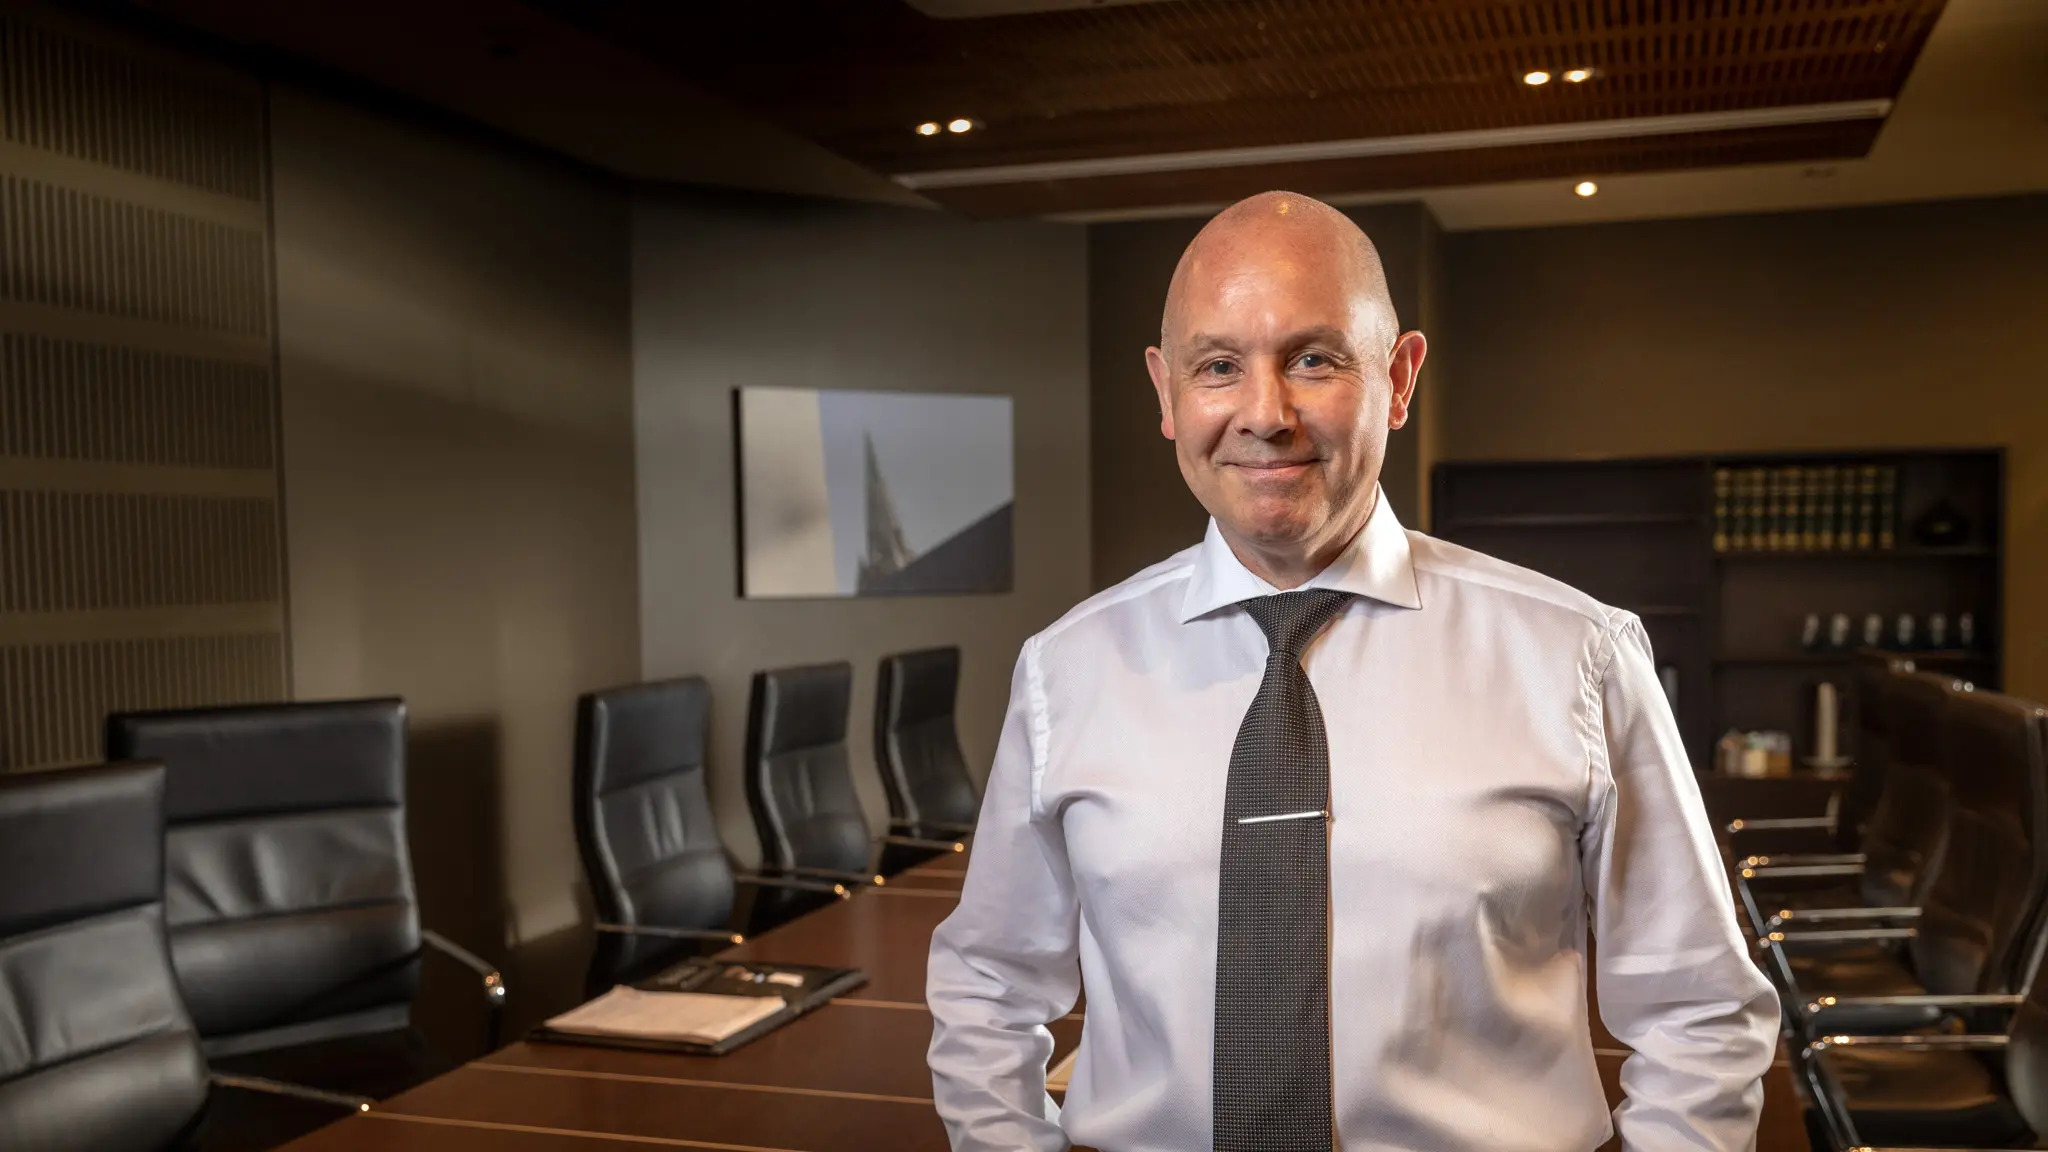
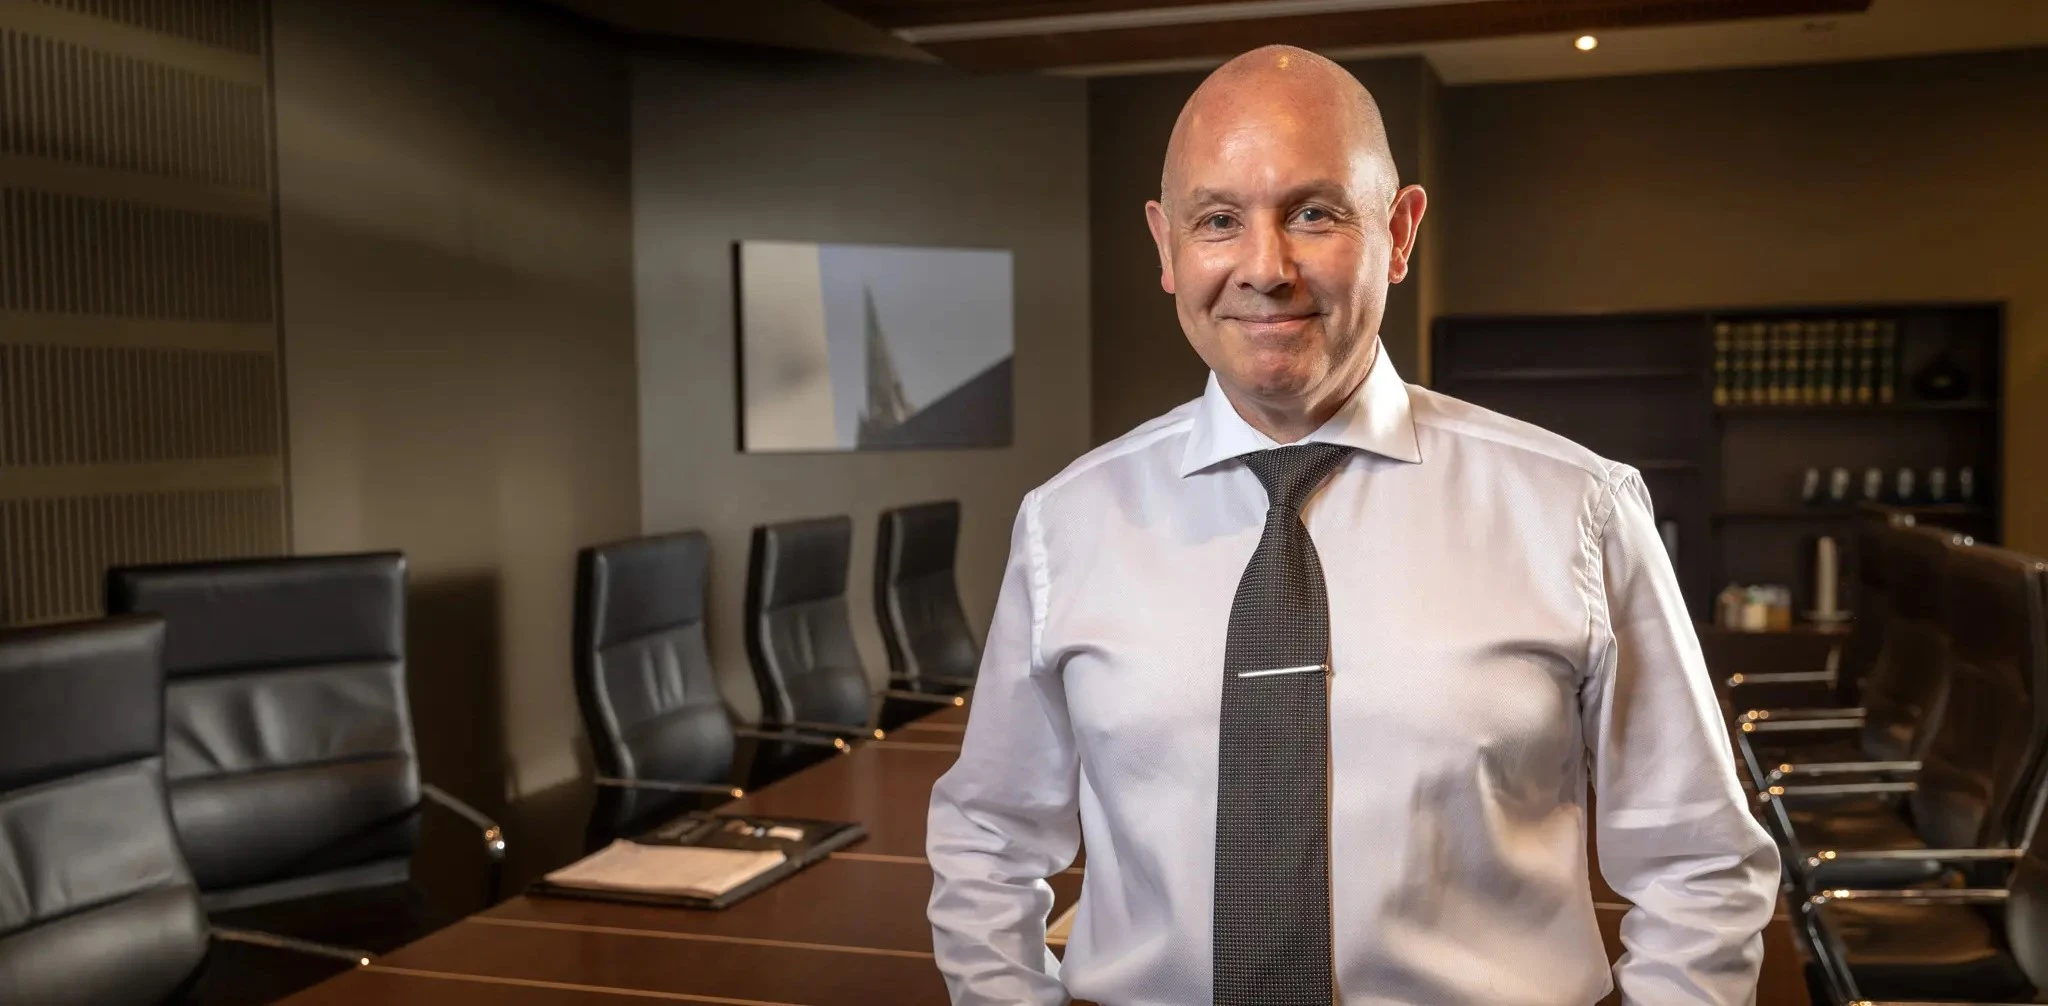
Added Layout102 and Content1

diff --git a/src/components/Layout102.tsx b/src/components/Layout102.tsx
@@ -17,7 +17,8 @@ type Props = {
   image: ImageProps;
 };
 
-export type Layout102Props = React.ComponentPropsWithoutRef<"section"> & Partial<Props>;
+export type Layout102Props = React.ComponentPropsWithoutRef<"section"> &
+  Partial<Props>;
 
 export function Layout102(props: Layout102Props) {
   const { heading, description, image, subHeadings } = {
@@ -26,49 +27,57 @@ export function Layout102(props: Layout102Props) {
   };
 
   return (
-    <section id='layout102' className='px-[5%] py-16 md:py-24 lg:py-28'>
-      <div className='container'>
-        <div className='mb-12 grid grid-cols-1 items-start justify-between gap-x-12 gap-y-5 md:mb-18 md:grid-cols-2 md:gap-x-12 md:gap-y-8 lg:mb-20 lg:gap-x-20'>
+    <section id="layout102" className="px-[5%] py-16 md:py-24 lg:py-28">
+      <div className="container">
+        <div className="mb-12 grid grid-cols-1 items-start justify-between gap-x-12 gap-y-5 md:mb-18 md:grid-cols-2 md:gap-x-12 md:gap-y-8 lg:mb-20 lg:gap-x-20">
           <header>
-            <h2 className='text-4xl font-bold leading-[1.2] md:text-5xl lg:text-6xl'>{heading}</h2>
+            <h2 className="text-4xl font-bold leading-[1.2] md:text-5xl lg:text-6xl">
+              {heading}
+            </h2>
           </header>
           <div>
-            <p className='mb-6 md:mb-8 md:text-md'>{description}</p>
-            <div className='grid grid-cols-1 gap-6 py-2 sm:grid-cols-2'>
+            <p className="mb-6 md:mb-8 md:text-md">{description}</p>
+            <div className="grid grid-cols-1 gap-6 py-2 sm:grid-cols-2">
               {subHeadings.map((subHeading, index) => (
                 <article key={index}>
-                  <h3 className='mb-3 text-md font-bold leading-[1.4] md:mb-4 md:text-xl'>{subHeading.title}</h3>
+                  <h3 className="mb-3 text-md font-bold leading-[1.4] md:mb-4 md:text-xl">
+                    {subHeading.title}
+                  </h3>
                   <p>{subHeading.description}</p>
                 </article>
               ))}
             </div>
           </div>
         </div>
-        <div className='relative'>
-          <div className='absolute inset-0 bg-black/10 z-10'></div>
+        <div className="relative">
+          <div className="absolute inset-0 bg-black/10 z-10"></div>
           <Image
             src={image.src}
             alt={image.alt ?? ""}
             width={1280}
-            height={720}
-            className='w-full object-cover relative rounded-lg'
+            height={853}
+            className="w-full object-cover relative rounded-lg"
           />
           {/* Glass morphism quote on medium devices and up */}
-          <div className='absolute left-[5%] top-1/2 -translate-y-1/2 lg:max-w-[300px] md:max-w-[270px] h-auto rounded-lg bg-white/10 backdrop-blur-md p-8 hidden md:flex flex-col justify-center'>
-            <p className='text-white text-2xl italic font-normal mb-4'>
-              &quot;I am looking to build on the knowledge and experience I have accumulated to create life changing
-              wealth for investors&quot;
+          <div className="absolute left-[5%] top-1/2 -translate-y-1/2 lg:max-w-[300px] md:max-w-[270px] h-auto rounded-lg bg-white/10 backdrop-blur-md p-8 hidden md:flex flex-col justify-center">
+            <p className="text-white text-2xl italic font-normal mb-4">
+              &quot;I am looking to build on the knowledge and experience I have
+              accumulated to create life changing wealth for investors&quot;
             </p>
-            <p className='text-white italic font-normal mb-4 text-lg'>- Bernard Whimp</p>
+            <p className="text-white italic font-normal mb-4 text-lg">
+              - Bernard Whimp
+            </p>
           </div>
         </div>
         {/* Quote for small devices */}
-        <div className='bg-white mt-6 md:hidden'>
-          <p className='text-black italic font-normal mb-4 sm:text-2xl'>
-            &quot;I am looking to build on the knowledge and experience I have accumulated to create life changing
-            wealth for investors&quot;
+        <div className="bg-white mt-6 md:hidden">
+          <p className="text-black italic font-normal mb-4 sm:text-2xl">
+            &quot;I am looking to build on the knowledge and experience I have
+            accumulated to create life changing wealth for investors&quot;
           </p>
-          <p className='text-black italic font-normal mb-4 sm:text-2xl'>- Bernard Whimp</p>
+          <p className="text-black italic font-normal mb-4 sm:text-2xl">
+            - Bernard Whimp
+          </p>
         </div>
       </div>
     </section>
@@ -76,10 +85,10 @@ export function Layout102(props: Layout102Props) {
 }
 
 export const Layout102Defaults: Props = {
-  heading: `Described by some as "the god of stocks."`,
-  description: `Bernard Whimp is a visionary and an entrepreneur, some would refer to him as "the god of stocks". As an experienced professional stock picker, he is passionate, relentless, and strategic when it comes to the Australian stock market.`,
+  heading: `Described by some as "the god of stocks"`,
+  description: `Bernard Whimp is a visionary and an entrepreneur; some would refer to him as "the god of stocks". As an experienced professional stock picker, he is passionate, relentless, and strategic when it comes to the Australian stock market.`,
   image: {
-    src: "/images/bernard-desk-center.webp",
+    src: "/images/bernard-at-desk.webp",
     alt: "Bernard sitting at desk",
   },
   subHeadings: [

diff --git a/src/components/Hero.tsx b/src/components/Hero.tsx
@@ -21,7 +21,8 @@ type Props = {
   image: ImageProps;
 };
 
-export type HeroProps = React.ComponentPropsWithoutRef<"section"> & Partial<Props>;
+export type HeroProps = React.ComponentPropsWithoutRef<"section"> &
+  Partial<Props>;
 
 export const Hero = (props: HeroProps) => {
   const { tagline, heading, buttons, image } = {
@@ -35,27 +36,31 @@ export const Hero = (props: HeroProps) => {
   };
 
   return (
-    <section id='relume' className='relative px-[5%]'>
-      <div className='container'>
-        <div className='flex min-h-svh flex-col justify-end md:justify-end lg:justify-start lg:flex-row lg:items-center py-16 md:py-24 lg:py-28'>
-          <div className='max-w-md pb-8 md:pb-12 lg:pb-0'>
-            <p className='mb-3 font-normal text-text-alternative md:mb-4'>{tagline}</p>
-            <h1 className='mb-5 text-6xl font-bold text-text-alternative md:mb-6 md:text-9xl lg:text-10xl'>
+    <section id="relume" className="relative px-[5%]">
+      <div className="container">
+        <div className="flex min-h-svh flex-col justify-end md:justify-end lg:justify-start lg:flex-row lg:items-center py-16 md:py-24 lg:py-28">
+          <div className="max-w-md pb-8 md:pb-12 lg:pb-0">
+            <p className="mb-3 font-normal text-text-alternative md:mb-4">
+              {tagline}
+            </p>
+            <h1 className="mb-5 text-6xl font-bold text-text-alternative md:mb-6 md:text-9xl lg:text-10xl">
               {heading}
             </h1>
-            <p className='text-text-alternative md:text-md'>
-              Bernard Whimp has over 30 years experience in share investment and stock markets, commercial property
-              investment and development, commercial property financing and mortgage lending, property <br />
+            <p className="text-text-alternative md:text-md">
+              Bernard Whimp has over 30 years experience in share investment and
+              stock markets, commercial property investment and development,
+              commercial property financing and mortgage lending, property{" "}
+              <br />
               and securities law.
             </p>
-            <div className='mt-6 flex flex-wrap gap-4 md:mt-8'>
+            <div className="mt-6 flex flex-wrap gap-4 md:mt-8">
               {buttons.map((button, index) =>
                 button.title === "Learn more" ? (
                   <Button key={index} {...button} onClick={handleLearnMore}>
                     {button.title}
                   </Button>
                 ) : (
-                  <Button key={index} {...button} href='/contact'>
+                  <Button key={index} {...button} href="/contact">
                     {button.title}
                   </Button>
                 )
@@ -64,16 +69,16 @@ export const Hero = (props: HeroProps) => {
           </div>
         </div>
       </div>
-      <div className='absolute inset-0 -z-10'>
+      <div className="absolute inset-0 -z-10">
         <Image
           src={image.src}
           alt={image.alt || "Background image"}
           fill
-          sizes='(max-width: 768px) 100vw, (max-width: 1200px) 100vw, 100vw'
-          className='object-cover object-[65%_center] md:object-center'
+          sizes="(max-width: 768px) 100vw, (max-width: 1200px) 100vw, 100vw"
+          className="object-cover object-[65%_center] md:object-center"
           priority
         />
-        <div className='absolute inset-0 bg-gradient-to-t from-black/80 via-black/40 to-transparent' />
+        <div className="absolute inset-0 bg-gradient-to-t from-black/80 via-black/40 to-transparent" />
       </div>
     </section>
   );
@@ -87,7 +92,7 @@ export const HeroDefaults: Props = {
     { title: "Get in touch", variant: "transparent-bg", href: "#contact" },
   ],
   image: {
-    src: "/images/hero-crop.jpg",
+    src: "/images/hero.webp",
     alt: "Bernard Whimp",
   },
 };

diff --git a/src/components/Content1.tsx b/src/components/Content1.tsx
@@ -1,0 +1,71 @@
+import Image from "next/image";
+
+type ImageProps = {
+  src: string;
+  alt?: string;
+};
+
+type Props = {
+  heading: string;
+  image: ImageProps;
+  children: React.ReactNode;
+};
+
+export type Content1Props = React.ComponentPropsWithoutRef<"section"> & Partial<Props>;
+
+export const Content1 = (props: Content1Props) => {
+  const { heading, children, image } = {
+    ...Content1Defaults,
+    ...props,
+  };
+  return (
+    <section id='relume' className='px-[5%] py-16 md:py-24 lg:py-28'>
+      <div className='container'>
+        <div className='grid grid-cols-1 items-start gap-y-12 md:grid-cols-2 md:gap-x-12 lg:gap-x-20'>
+          <div>
+            <h2 className='rb-5 mb-5 text-5xl font-bold md:mb-6 md:text-7xl lg:text-8xl'>{heading}</h2>
+            <div className='prose'>{children}</div>
+          </div>
+          <div>
+            <Image
+              src={image.src}
+              width={600}
+              height={600}
+              className='w-full object-cover'
+              alt={image.alt || "Image"}
+              layout='responsive'
+            />
+          </div>
+        </div>
+      </div>
+    </section>
+  );
+};
+
+export const Content1Defaults: Props = {
+  heading: "Short heading goes here",
+  children: (
+    <div>
+      <p>
+        Morbi sed imperdiet in ipsum, adipiscing elit dui lectus. Tellus id scelerisque est ultricies ultricies. Duis
+        est sit sed leo nisl, blandit elit sagittis. Quisque tristique consequat quam sed. Nisl at scelerisque amet
+        nulla purus habitasse.
+      </p>
+      <p>
+        Nunc sed faucibus bibendum feugiat sed interdum. Ipsum egestas condimentum mi massa. In tincidunt pharetra
+        consectetur sed duis facilisis metus. Etiam egestas in nec sed et. Quis lobortis at sit dictum eget nibh tortor
+        commodo cursus.
+      </p>
+      <p>
+        Odio felis sagittis, morbi feugiat tortor vitae feugiat fusce aliquet. Nam elementum urna nisi aliquet erat
+        dolor enim. Ornare id morbi eget ipsum. Aliquam senectus neque ut id eget consectetur dictum. Donec posuere
+        pharetra odio consequat scelerisque et, nunc tortor. Nulla adipiscing erat a erat. Condimentum lorem posuere
+        gravida enim posuere cursus diam.
+      </p>
+    </div>
+  ),
+  image: {
+    src: "https://d22po4pjz3o32e.cloudfront.net/placeholder-image.svg",
+    alt: "Relume placeholder image",
+  },
+};

diff --git a/src/components/Layout194.tsx b/src/components/Layout194.tsx
@@ -1,0 +1,57 @@
+import React from "react";
+import Image from "next/image";
+
+interface ImageProps {
+  src: string;
+  alt?: string;
+}
+
+interface Props {
+  heading: string;
+  description: string;
+  image: ImageProps;
+}
+
+export type Layout194Props = React.ComponentPropsWithoutRef<"section"> &
+  Partial<Props>;
+
+export const Layout194 = (props: Layout194Props) => {
+  const { heading, description, image } = {
+    ...Layout194Defaults,
+    ...props,
+  };
+
+  return (
+    <section id="relume" className="px-[5%] sm:px-0">
+      <div className="flex flex-col md:flex-row relative">
+        <div className="relative w-full md:w-1/2 h-[300px] md:h-[600px]">
+          <div className="absolute inset-0 bg-black/30 z-10"></div>
+          <Image
+            src={image.src}
+            alt={image.alt || "Image"}
+            fill
+            sizes="(max-width: 768px) 100vw, 50vw"
+            className="object-cover"
+          />
+        </div>
+        <div className="w-full z-20 md:absolute md:top-1/2 md:transform md:-translate-y-1/2 md:right-[5%] md:w-[60%] h-auto flex flex-col justify-center bg-white border-black/10 py-8 px-0 sm:px-8 rounded-lg md:shadow-xxlarge">
+          <h3 className="mb-5 text-4xl font-bold leading-[1.2] md:mb-6 md:text-5xl lg:text-6xl">
+            {heading}
+          </h3>
+          <div className="w-[100px] h-[2px] bg-black mb-5"></div>
+          <p className="md:text-md">{description}</p>
+        </div>
+      </div>
+    </section>
+  );
+};
+
+export const Layout194Defaults: Props = {
+  heading: "Pioneering Deep Value Investing",
+  description:
+    "Bernard has an aptitude for the area of the market known as deep value, the natural home of independent thinkers. Combing the market for companies which look like they have had a problem, assessing the dynamics at play across the whole economy. He understands the public consciousness and looks for situations where pessimism has driven the share price to ridiculously low levels and where it is likely to bounce back, these are referred to as high probability situations.",
+  image: {
+    src: "/images/board-table.webp",
+    alt: "Board Room Table and Chairs",
+  },
+};

diff --git a/src/app/page.tsx b/src/app/page.tsx
@@ -1,10 +1,15 @@
 import { Hero } from "@/components/Hero";
 import { Layout102 } from "@/components/Layout102";
+import { Layout194 } from "@/components/Layout194";
+import { Content1 } from "@/components/Content1";
+
 export default function Home() {
   return (
     <>
       <Hero />
       <Layout102 />
+      <Layout194 />
+      <Content1 />
     </>
   );
 }
